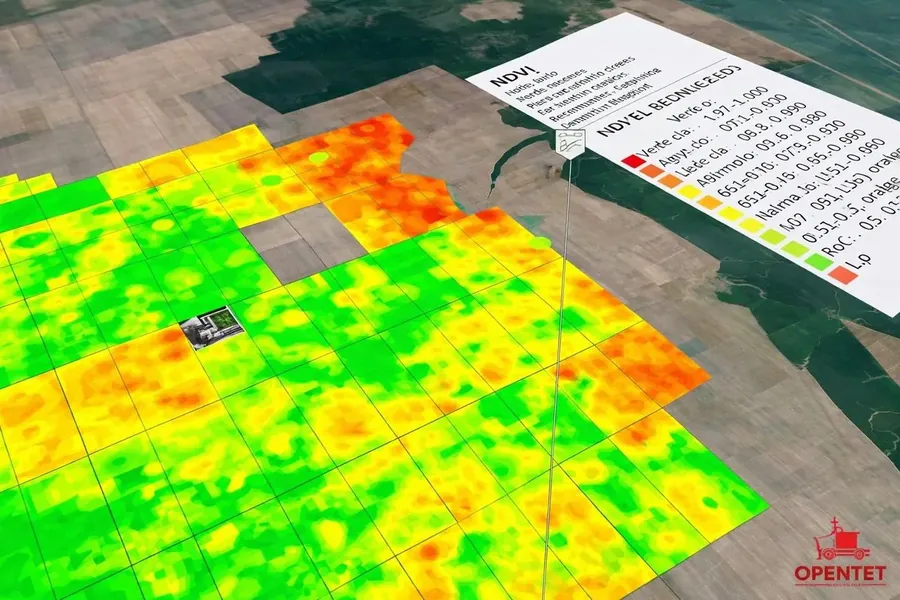
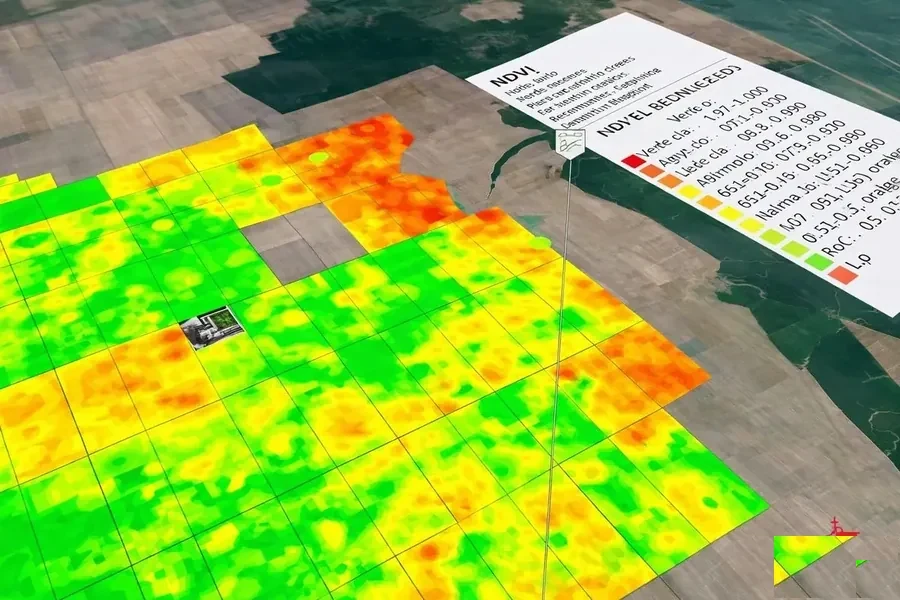
fix(imagenes+layout): traduce PT->ES, quita marca de agua, muestra mapas completos, elimina tarja blanca
IMÁGENES
- mapeamiento-fertilidad-suelo: banner traducido "AGRICULTURA DE PRECISÃO /
  MAPEAMENTO DE FERTILIDADE DO SOLO" -> "AGRICULTURA DE PRECISIÓN / MAPEO DE
  FERTILIDAD DEL SUELO" (repintado + Arial Black)
- servicio-03: 7x "1 amostra composta" -> "1 muestra compuesta" y el pie
  "Figura 9 Ilustração..." -> "...Ilustración del esquema de muestreo de suelos
  en zonas de manejo" (deteccion por componentes conexas + limpieza de fragmentos)
- mapa-agricola-ndvi: eliminada la marca de agua de terceros "OPENTET" (clon de fondo)

DISPLAY
- Mapas con datos incrustados (mapa-costos, mapa-productividad, mapa-aplicacion,
  mapeamiento, mapa-agricola, servicio-03) pasan a object-fit:contain sobre blanco
  para que NO se recorte ninguna etiqueta/leyenda/banner. Como sus márgenes ya son
  blancos, el contain se funde sin bordes visibles.

TARJA BLANCA (bug)
- Removido content-visibility:auto + contain-intrinsic-size:800px de 11 secciones:
  las más altas hacían fluctuar la altura del documento al hacer scroll (13k->18k)
  y dejaban una franja blanca del body al final. scrollHeight ahora estable; el
  footer queda al ras del fondo.

NOTA: field-planning/control/metrics quedan en portugués por decisión del usuario
(capturas de la app, texto diminuto no editable sin recaptura).

Changed region(s): [[0.84, 0.87, 1.0, 1.0]]

diff --git a/css/main.css b/css/main.css
@@ -2297,20 +2297,9 @@ a:focus:not(:focus-visible) {
 /* ==========================================================
    27. CLIENT-SIDE CONTENT-VISIBILITY (perf hint)
    ========================================================== */
-.process,
-.about,
-.services,
-.testimonials,
-.packages,
-.tech,
-.gallery,
-.faq,
-.roi-calc,
-.apps-section,
-.contact {
-  content-visibility: auto;
-  contain-intrinsic-size: 1px 800px;
-}
+/* content-visibility:auto se removió: con contain-intrinsic-size fijo (800px)
+   las secciones más altas provocaban fluctuación de altura al hacer scroll y
+   dejaban una franja blanca del fondo del body al final de la página. */
 
 /* ==========================================================
    26. AUDIT POLISH (2026-08) — a11y & consistency
@@ -2345,3 +2334,18 @@ main[tabindex] { scroll-margin-top: 96px; }
 
 /* Star ratings: color meets 3:1, hidden glyphs get an accessible label */
 .testimonial-stars { color: #B45309; }
+
+/* ==========================================================
+   27. MAPAS CON DATOS INCRUSTADOS — mostrar completos (sin recorte)
+   Estos archivos llevan etiquetas/leyendas/banners que no deben cortarse.
+   Como sus márgenes ya son blancos, `contain` sobre blanco se funde sin bordes.
+   ========================================================== */
+.gallery-item img[src*="mapa-costos"],
+.gallery-item img[src*="mapa-productividad"],
+img[src*="mapa-agricola"],
+img[src*="mapa-aplicacion"],
+img[src*="mapeamiento-fertilidad"],
+img[src*="servicio-03"] {
+  object-fit: contain;
+  background: #ffffff;
+}
